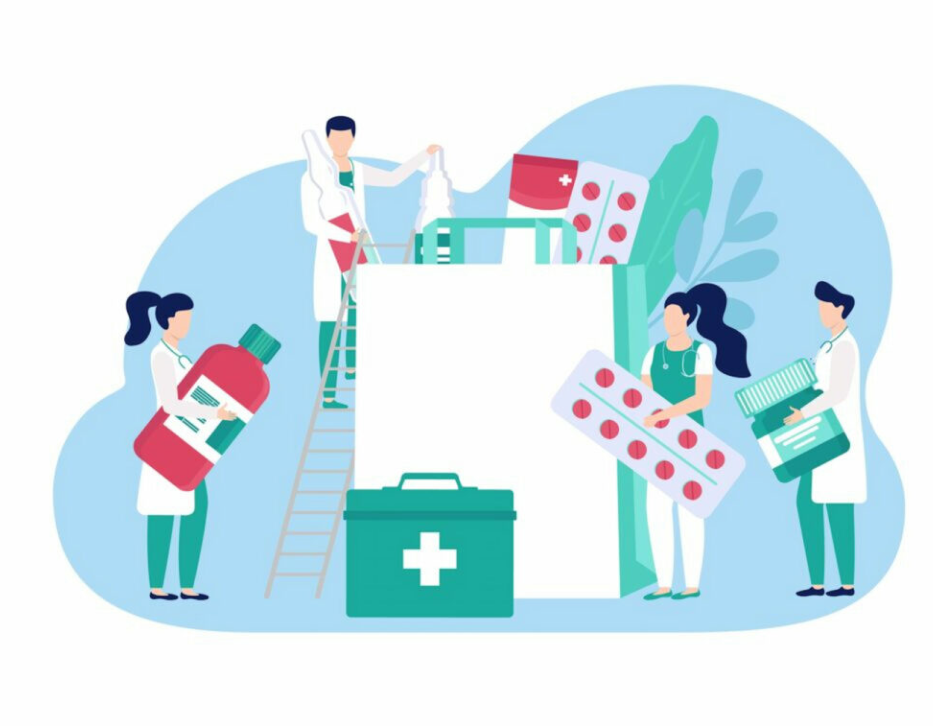
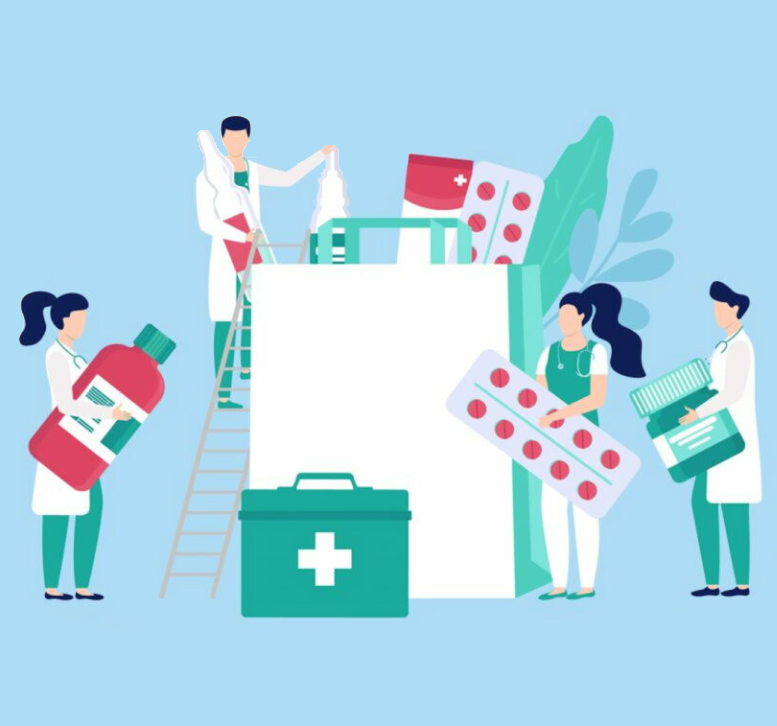
Sobre Nosotros

diff --git a/css/SobreNosotros.css b/css/SobreNosotros.css
@@ -1,36 +1,111 @@
 .header{
-    padding: 15px;
-    background-color: seagreen;
+    position: fixed;
+    padding: 40px;
+    width: 100%;
+    background-color: white;
+    box-shadow: 0px 4px 4px rgba(0, 0, 0, 0.25);
+    z-index: 9999;
+}
+#hr1{
+    position: absolute;
+    top: 50%;
 }
 h1{
     font-family: Arial, Helvetica, sans-serif;
+    position: absolute;
+    top:2%;
+    
 }
 
-
+.subrayado{
+    text-decoration: underline;
+}
 
 label{
 
     font-family: Arial, Helvetica, sans-serif;
-    font-size: 60px;
+    font-size: 50px;
+    
 }
-
+#background1{
+    margin: 0px;
+    height: 620px;
+    width: 1400px;
+    background-color: #addcf6;
+    z-index: -5;
+}
 
 #position1{
     position: absolute;
-    left:10%;
-    top:25%
+    right:10%;
+    top:37%;
+    
+    padding: 8px;
+    border-left-style: solid;
+    border-color: black;
+    border-width: 8px;
 }
-#IMGsalud{
+#position2{
+    position: absolute;
+    right:5%;
+    top:120%;
+
+    padding: 8px;
+    border-left-style: solid;
+    border-color: black;
+    border-width: 8px;
+}
+
+#position3{
+    position: absolute;
+    right: 30%;
+    top:190%;
+    padding: 8px;
+    border-left-style: solid;
+    border-color: #4A4EB5;
+    border-width: 8px;
+}
+
+
+
+
+#SaludImg{
     position: absolute;
     height: 426px;
-    width: 658px;
-    left:50%;
-    top:40%;
+    width: 558px;
+    left:5%;
+    top:10%;
     border-width: 0px;
     background-repeat: no-repeat;
     background-image: url(../imagenes/IMGsalud.png);
-    background-size: 658px 426px;
-    z-index: -5;
+    background-size: 558px 426px;
+    
+}
+#BlockChainImg{
+    position: absolute;
+    top: 90%;
+    left:5%;
+    height: 610px;
+    width: 611px;
+    border-width: 0px;
+    background-color: rgba(0,0, 0, 0);
+    background-repeat: no-repeat;
+    background-image: url(../imagenes/blockchain\ 1.png);
+    background-size: 611px 610px;
+}
+
+#MedicoCompuImg{
+    position: absolute;
+    top: 180%;
+    left:13%;
+    height: 416px;
+    width: 411px;
+    border-width: 0px;
+    background-color: rgba(0,0, 0, 0);
+    background-repeat: no-repeat;
+    background-image: url(../imagenes/MedicoCompu.png);
+    background-size: 411px 416px;
+    
 }
 
 

diff --git a/SobreNosotros/SobreBesmo.html b/SobreNosotros/SobreBesmo.html
@@ -1,0 +1,50 @@
+<!DOCTYPE html>
+<html lang="en">
+<head>
+    <title>SobreNosotros</title>
+
+    <link rel="stylesheet" href="../css/SobreNosotros.css">
+</head>
+<body>
+    <header class="header">
+    <h1>Sobre BESMO</h1>
+    </header>
+    <div id="background1">
+        <div id= position1>
+        <label>Una </label>    
+        <label class="subrayado"> experiencia </label>
+        <br>
+        <label>centrada en la </label>
+        <label class="subrayado">seguridad</label>
+        <br>
+        <label> de los pacientes.</label> 
+        </div>
+    
+        <input id="SaludImg"type="button">
+    </div>
+   <hr id="hr1">
+
+   <div id= position2>
+        <label>Infraestructura tecnológica</label>
+        <br>
+        <label class="subrayado">conectada por blockchain</label>
+    
+        <br>
+        <label>para la industria de la salud</label>
+   </div>
+
+   
+    <input id="BlockChainImg"type="button">
+  
+
+   <div id="position3">
+        <label>Blockchain</label> <br>
+        <label>Eficiencia</label> <br>
+        <label>Seguridad</label> <br>
+        <label>Medicina</label> <br>
+        <label>Organizador</label>
+   </div>
+   <input id="MedicoCompuImg"type="button">
+
+</body>
+</html>
